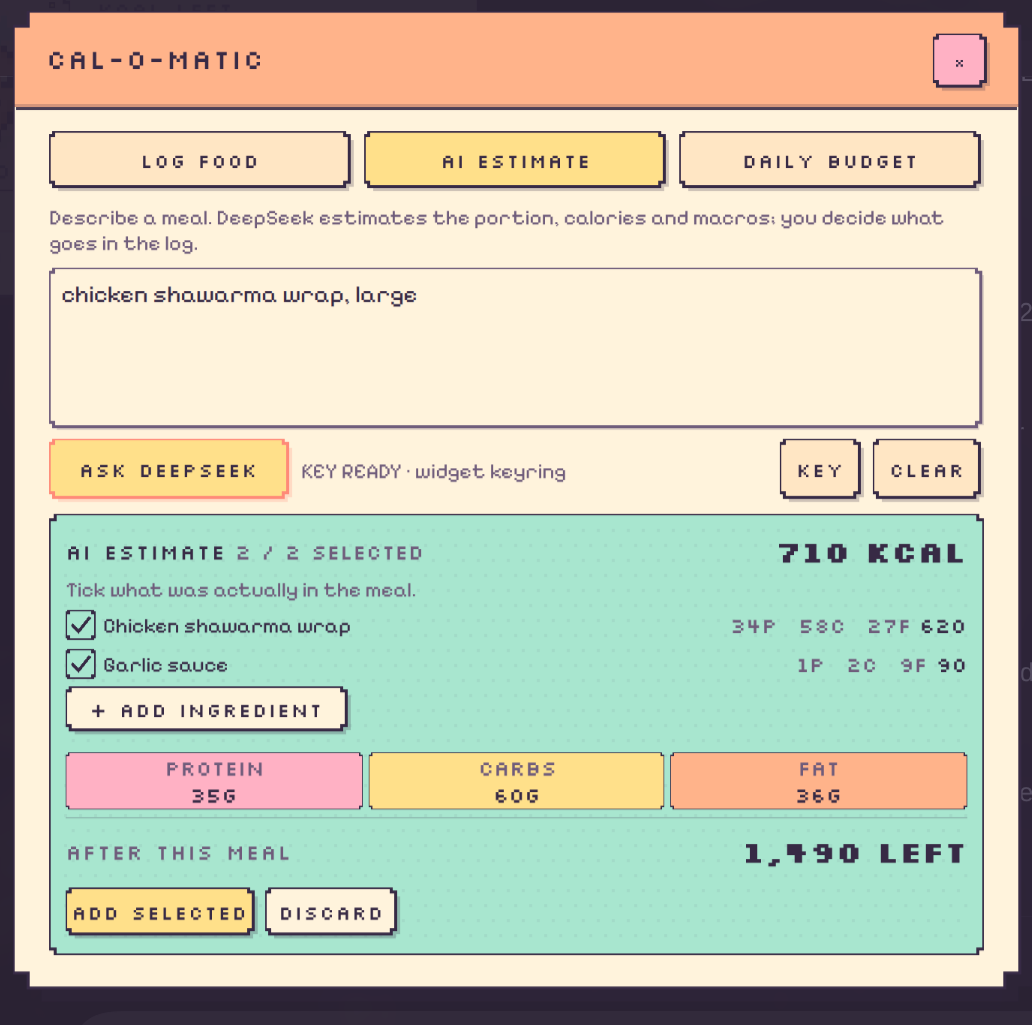
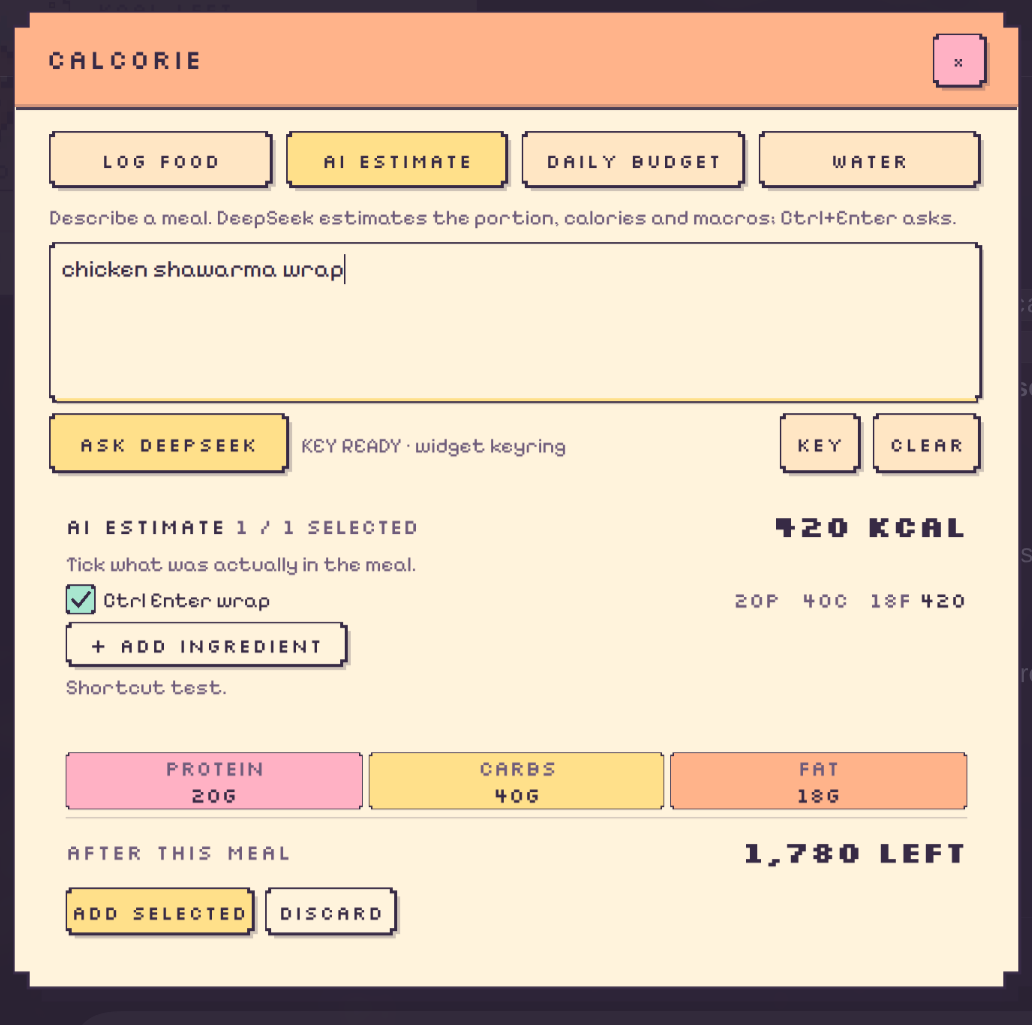
rename: Calcorie
- update app title, card/panel headers, notifications and widget metadata
- add a calcorie IPC alias while keeping the calcalories widget id and data
- read the new calcorie keyring entry with fallback to the old one
- refresh screenshots and docs for the new name

diff --git a/widget/Calcalories.qml b/widget/Calcalories.qml
@@ -259,7 +259,7 @@ AbstractBackgroundWidget {
         const left = Math.max(0, root.waterGoal - root.waterGlasses)
         const body = root.waterGlasses + " of " + root.waterGoal + " glasses today"
             + (left > 0 ? " — " + left + " to go." : ".")
-        Quickshell.execDetached(["notify-send", "-a", "Cal-O-Matic",
+        Quickshell.execDetached(["notify-send", "-a", "Calcorie",
             "-i", "dialog-information", "Water break", body])
         if (!test) {
             root.waterLastReminder = Date.now()
@@ -407,7 +407,7 @@ AbstractBackgroundWidget {
                 anchors.verticalCenter: parent.verticalCenter
             }
             Text {
-                text: "CAL-O-MATIC"
+                text: "CALCORIE"
                 color: Pal.ink
                 font.family: "Silkscreen"
                 font.pixelSize: Math.round(14 * root.d)
@@ -732,6 +732,24 @@ AbstractBackgroundWidget {
     /// Start today with an empty log.
     IpcHandler {
         target: "calcalories"
+        function open(): void { root.openPanel(0) }
+        function budget(): void { root.openPanel(2) }
+        function ai(): void { root.openPanel(1) }
+        function water(): void { root.openPanel(3) }
+        function waterAdd(): void { root.addWater() }
+        function waterTest(): void { root.sendWaterNotification(true) }
+        function close(): void { root.panelOpen = false }
+        function toggle(): void { root.panelOpen = !root.panelOpen }
+        function add(name: string, kcal: int): void { root.addEntry(name, kcal) }
+        function reset(): void { root.resetDay() }
+        function defaults(): void { root.resetAll() }
+        function bar(enabled: bool): string { return root.setBarPill(enabled) }
+    }
+
+    // New name, same widget. Keep the original target so existing keybinds,
+    // scripts and the installed folder continue to work.
+    IpcHandler {
+        target: "calcorie"
         function open(): void { root.openPanel(0) }
         function budget(): void { root.openPanel(2) }
         function ai(): void { root.openPanel(1) }

diff --git a/widget/CalBar.qml b/widget/CalBar.qml
@@ -61,11 +61,11 @@ MouseArea {
 
     Accessible.role: Accessible.Button
     Accessible.name: root.over
-        ? Translation.tr("Cal-O-Matic, %1 calories over").arg(root.amount)
-        : Translation.tr("Cal-O-Matic, %1 calories left").arg(root.amount)
+        ? Translation.tr("Calcorie, %1 calories over").arg(root.amount)
+        : Translation.tr("Calcorie, %1 calories left").arg(root.amount)
 
     function run(action: string): void {
-        Quickshell.execDetached([Quickshell.shellPath("scripts/inir"), "calcalories", action])
+        Quickshell.execDetached([Quickshell.shellPath("scripts/inir"), "calcorie", action])
     }
 
     onClicked: mouse => {
@@ -125,7 +125,7 @@ MouseArea {
     StyledToolTip {
         extraVisibleCondition: root.containsMouse
         text: root.over
-            ? Translation.tr("Cal-O-Matic — %1 kcal over. Click for the log; right-click AI; middle-click water.").arg(root.amount)
-            : Translation.tr("Cal-O-Matic — %1 kcal left. Click for the log; right-click AI; middle-click water.").arg(root.amount)
+            ? Translation.tr("Calcorie — %1 kcal over. Click for the log; right-click AI; middle-click water.").arg(root.amount)
+            : Translation.tr("Calcorie — %1 kcal left. Click for the log; right-click AI; middle-click water.").arg(root.amount)
     }
 }

diff --git a/widget/CalAi.qml b/widget/CalAi.qml
@@ -47,7 +47,7 @@ Item {
 
     function _readKey(): void {
         const keys = KeyringStorage.keyringData?.apiKeys ?? {}
-        const own = String(keys["calcalories-deepseek"] ?? "").trim()
+        const own = String(keys["calcorie-deepseek"] ?? keys["calcalories-deepseek"] ?? "").trim()
         const shared = String(keys["deepseek"] ?? "").trim()
         root._storedKey = own.length > 0 ? own : shared
         root.keySource = own.length > 0 ? "widget keyring"
@@ -68,7 +68,7 @@ Item {
             root.refreshKey()
             return false
         }
-        KeyringStorage.setNestedField(["apiKeys", "calcalories-deepseek"], key)
+        KeyringStorage.setNestedField(["apiKeys", "calcorie-deepseek"], key)
         root._storedKey = key
         root.keySource = "widget keyring"
         root.error = ""

diff --git a/widget/CalPanel.qml b/widget/CalPanel.qml
@@ -23,7 +23,7 @@ PanelWindow {
     anchors { top: true; bottom: true; left: true; right: true }
     exclusionMode: ExclusionMode.Ignore
     WlrLayershell.layer: WlrLayer.Overlay
-    WlrLayershell.namespace: "quickshell:calcalories"
+    WlrLayershell.namespace: "quickshell:calcorie"
     WlrLayershell.keyboardFocus: WlrKeyboardFocus.Exclusive
 
     FontLoader { id: silk; source: "fonts/Silkscreen-Regular.ttf" }
@@ -332,7 +332,7 @@ PanelWindow {
         Text {
             x: Math.round(20 * panel.d)
             y: Math.round(18 * panel.d)
-            text: "CAL-O-MATIC"
+            text: "CALCORIE"
             color: Pal.ink
             font.family: "Silkscreen"
             font.pixelSize: Math.round(18 * panel.d)

diff --git a/README.md b/README.md
@@ -1,9 +1,9 @@
-# Cal-O-Matic
+# Calcorie
 
 A pastel pixel calorie widget for [iNiR](https://github.com/snowarch/iNiR)'s Material desktop. A cream sticker with a
 cranky carrot, a segmented fuel bar and a proper little console behind it.
 
-![Cal-O-Matic on the desktop](preview.png)
+![Calcorie on the desktop](preview.png)
 
 Built and tested on **iNiR 3.1.0**, Material family, 1707 × 1067 logical / 1.5 scale.
 
@@ -62,17 +62,17 @@ The top bar also carries a tiny carrot and the remaining calories. Left-click th
 IPC, if you want a keybind:
 
 ```sh
-inir calcalories toggle
-inir calcalories open
-inir calcalories ai
-inir calcalories water
-inir calcalories waterAdd
-inir calcalories waterTest
-inir calcalories budget
-inir calcalories add "Banana" 105
-inir calcalories bar true   # put the carrot chip in the top bar
-inir calcalories reset
-inir calcalories defaults   # empty log, neutral example profile, 2,200 kcal
+inir calcorie toggle
+inir calcorie open
+inir calcorie ai
+inir calcorie water
+inir calcorie waterAdd
+inir calcorie waterTest
+inir calcorie budget
+inir calcorie add "Banana" 105
+inir calcorie bar true   # put the carrot chip in the top bar
+inir calcorie reset
+inir calcorie defaults   # empty log, neutral example profile, 2,200 kcal
 ```
 
 ## Install
@@ -90,6 +90,10 @@ inir background focusWidget custom.calcalories false
 
 `install-bar.sh` adds the bar chip to the installed Material (`ii`) bar. That registry lives in iNiR's plugin, so the script patches `BarContent.qml`, the config schema and the bar module editor, keeping `*.bak-calcalories` backups. Re-run it after an iNiR update if the chip disappears, then restart the shell.
 
+The installed widget id is still `calcalories` (folder and `custom.calcalories` config key), and the old `inir calcalories`
+command still works. That keeps existing logs, the keyring entry and the bar patch intact across the rename. New scripts
+should use `inir calcorie`.
+
 Then drag it where you want it in edit mode (`Super+W` opens widget edit mode on this setup). Scaling uses the normal
 desktop-widget scale control.
 
@@ -106,8 +110,8 @@ The widget writes the calorie log and water state under `background.widgets.cust
 per-output override) in `~/.config/inir/config.json`: `targetKcal`, `profileJson`, `entriesJson`, `logDay`,
 `waterGlasses`, `waterGoal`, `waterReminder`, `waterIntervalMin`, `waterLastReminder` and `waterDay`.
 
-The DeepSeek key is kept in iNiR's system-keyring entry (key id `calcalories-deepseek`) or read from
-`DEEPSEEK_API_KEY`. It is never written to widget settings. A meal description leaves the machine only when you press
+The DeepSeek key is kept in iNiR's system-keyring entry (key id `calcorie-deepseek`, falling back to the existing
+`calcalories-deepseek` entry) or read from `DEEPSEEK_API_KEY`. It is never written to widget settings. A meal description leaves the machine only when you press
 **Ask DeepSeek**; the request goes to `api.deepseek.com` and is not retried automatically.
 
 The profile is a generic starting point, not a guess about you: neutral, 30 years, 175 cm, 70 kg, light activity,

diff --git a/widget/README.md b/widget/README.md
@@ -1,4 +1,4 @@
-# Cal-O-Matic
+# Calcorie
 
 A pastel pixel calorie widget for iNiR / Material. The card sits on the desktop; click it to open the console. The
 console uses 16 px fields and a 13–14 px minimum for labels, with a 680×660 panel so the type can breathe.
@@ -14,7 +14,8 @@ console uses 16 px fields and a 13–14 px minimum for labels, with a 680×660 p
 
 ## Install
 
-Copy this folder to `~/.config/inir/widgets/calcalories`, then:
+The installed folder and config key keep the original `calcalories` id so existing data survives; `inir calcorie` is
+the new command alias. To install, copy this folder to `~/.config/inir/widgets/calcalories`, then:
 
 ```sh
 inir custom-widgets reload
@@ -27,21 +28,21 @@ Click the card to open the console. In edit mode the card drags and scales like 
 middle-click opens Water.
 
 For the AI estimate, paste a DeepSeek key in **AI estimate** once; it is stored in the system keyring (key id
-`calcalories-deepseek`). You can also set `DEEPSEEK_API_KEY` in the iNiR environment. The key is never written to
+`calcorie-deepseek`, falling back to the existing `calcalories-deepseek`). You can also set `DEEPSEEK_API_KEY` in the iNiR environment. The key is never written to
 widget settings. Use **KEY** in the ask row to replace a stored key. If your iNiR AI privacy policy is set to
 local-only, the AI tab says so and does not call out.
 
 ## IPC
 
 ```sh
-inir calcalories toggle
-inir calcalories ai
-inir calcalories water
-inir calcalories waterAdd
-inir calcalories waterTest
-inir calcalories add "Banana" 105
-inir calcalories reset
-inir calcalories defaults   # empty log, neutral example profile, 2,200 kcal
+inir calcorie toggle
+inir calcorie ai
+inir calcorie water
+inir calcorie waterAdd
+inir calcorie waterTest
+inir calcorie add "Banana" 105
+inir calcorie reset
+inir calcorie defaults   # empty log, neutral example profile, 2,200 kcal
 ```
 
 ## Privacy
